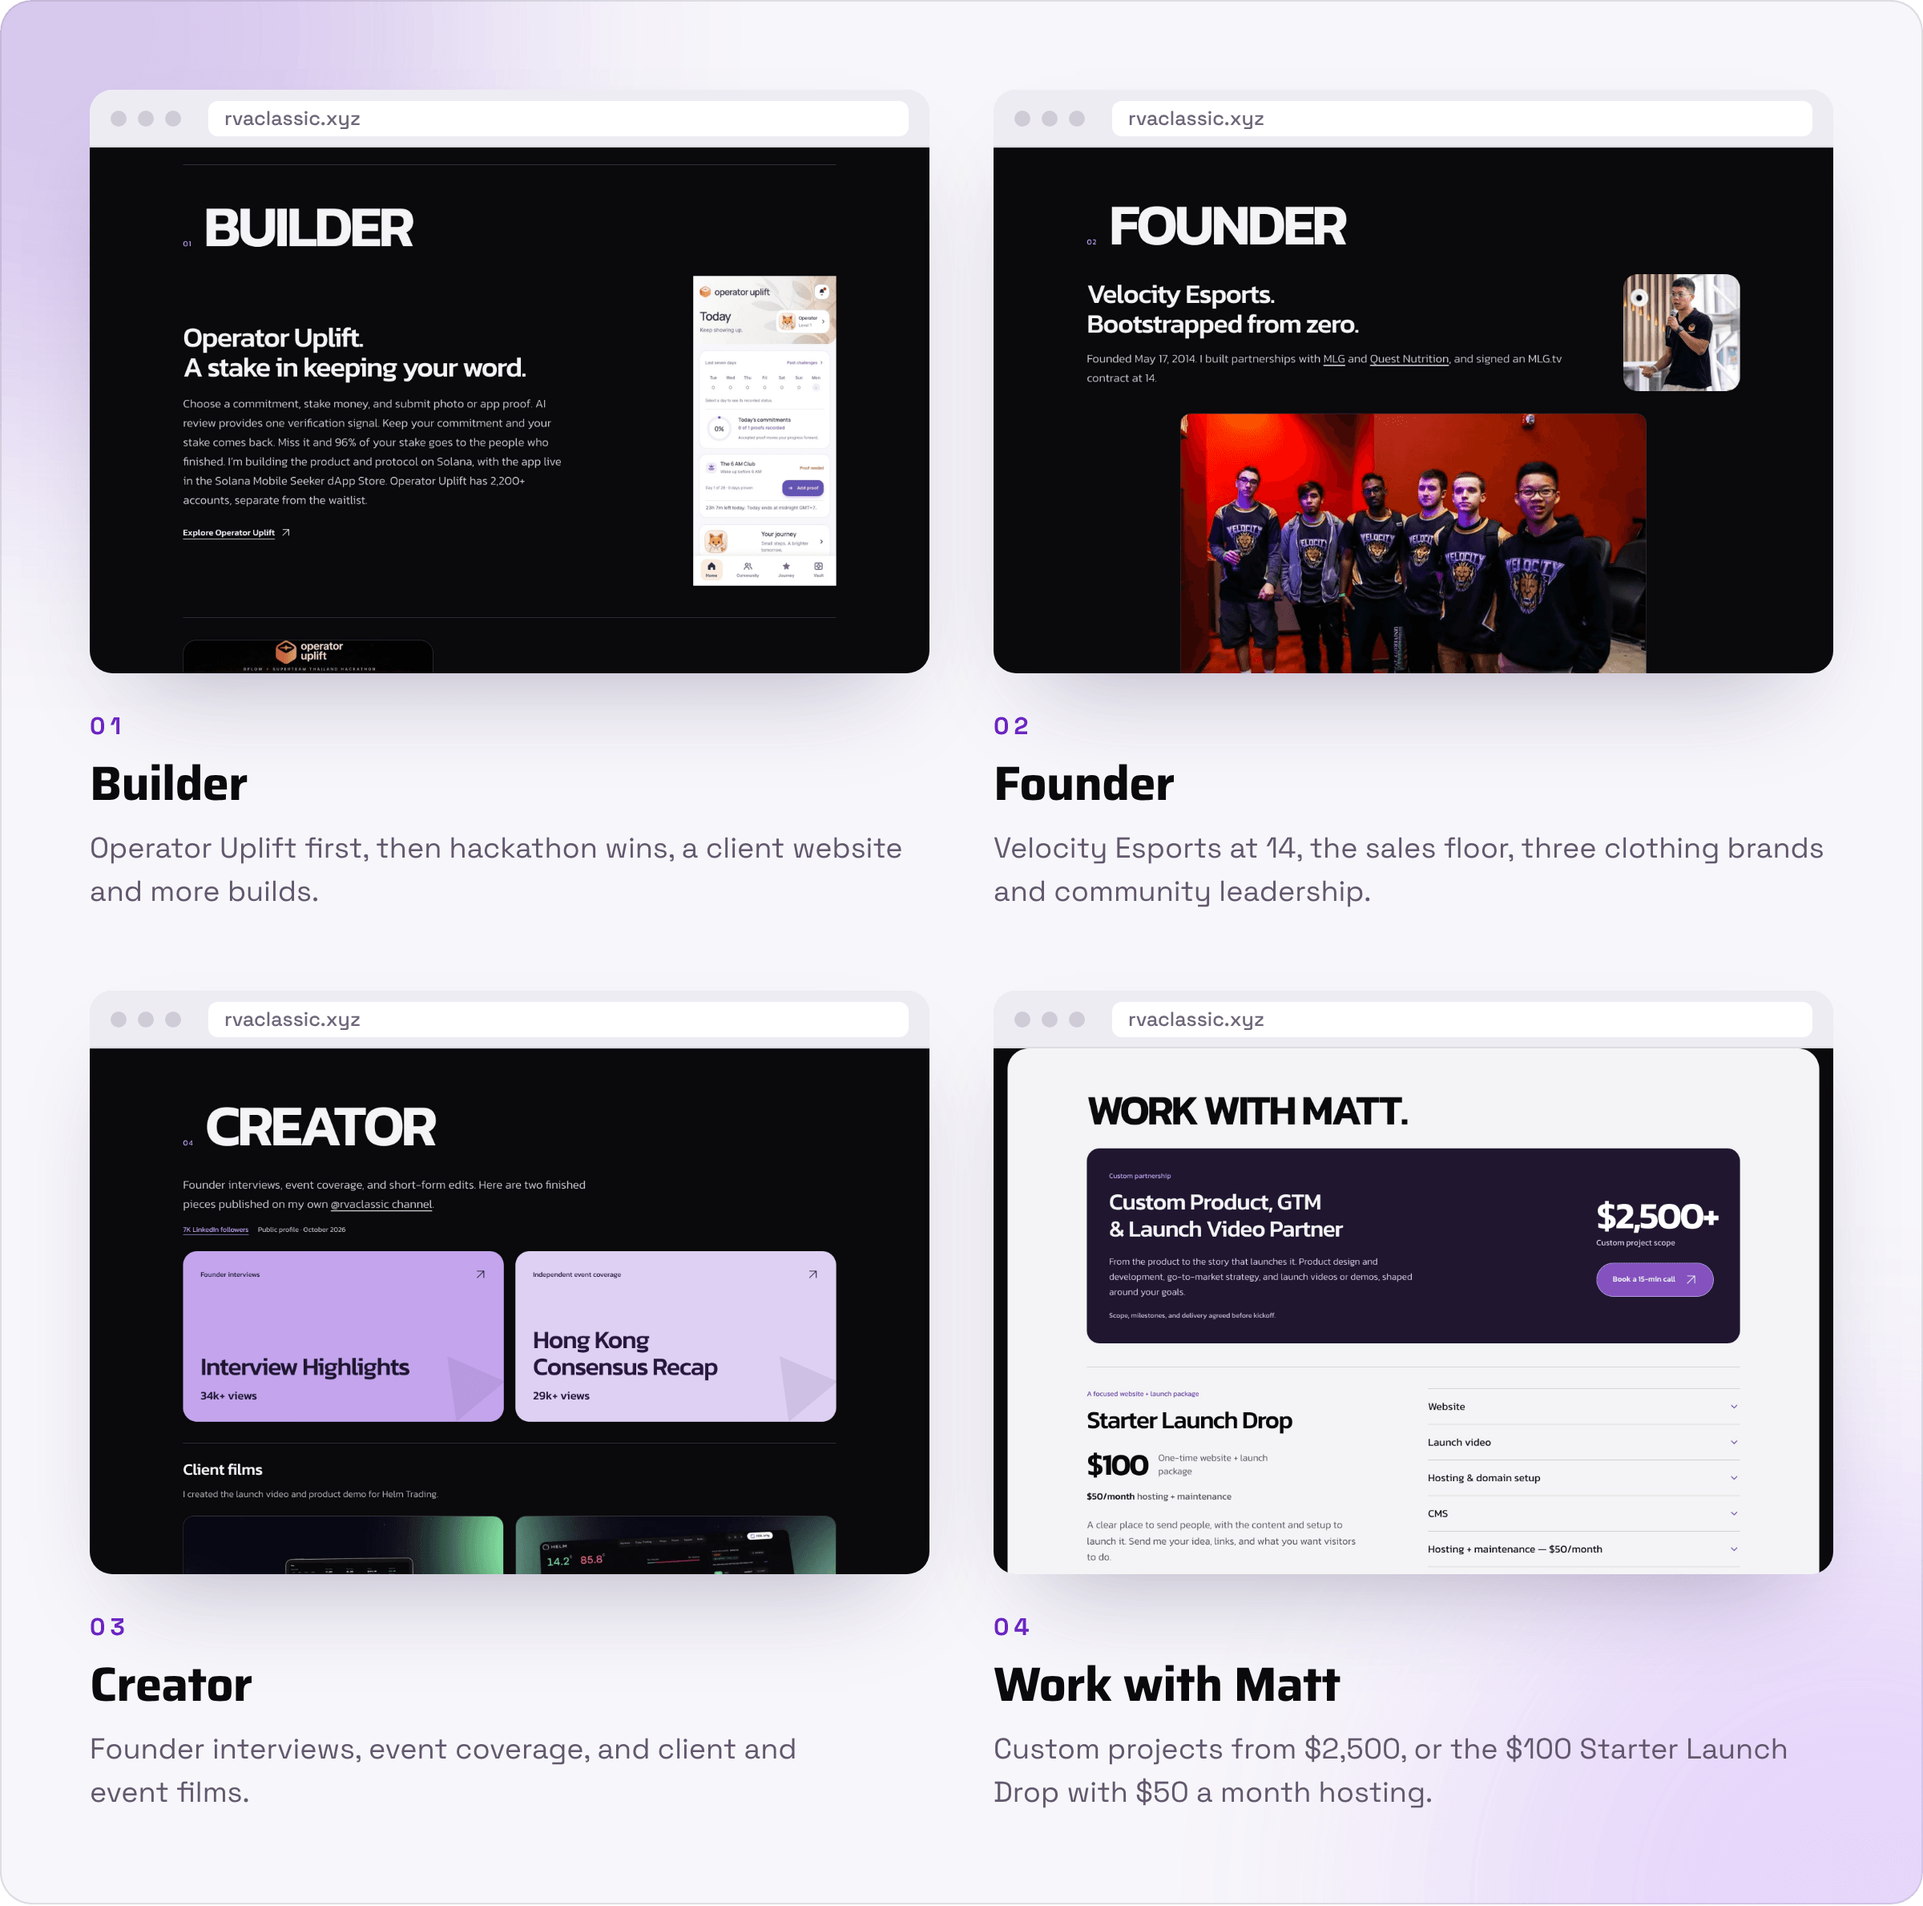
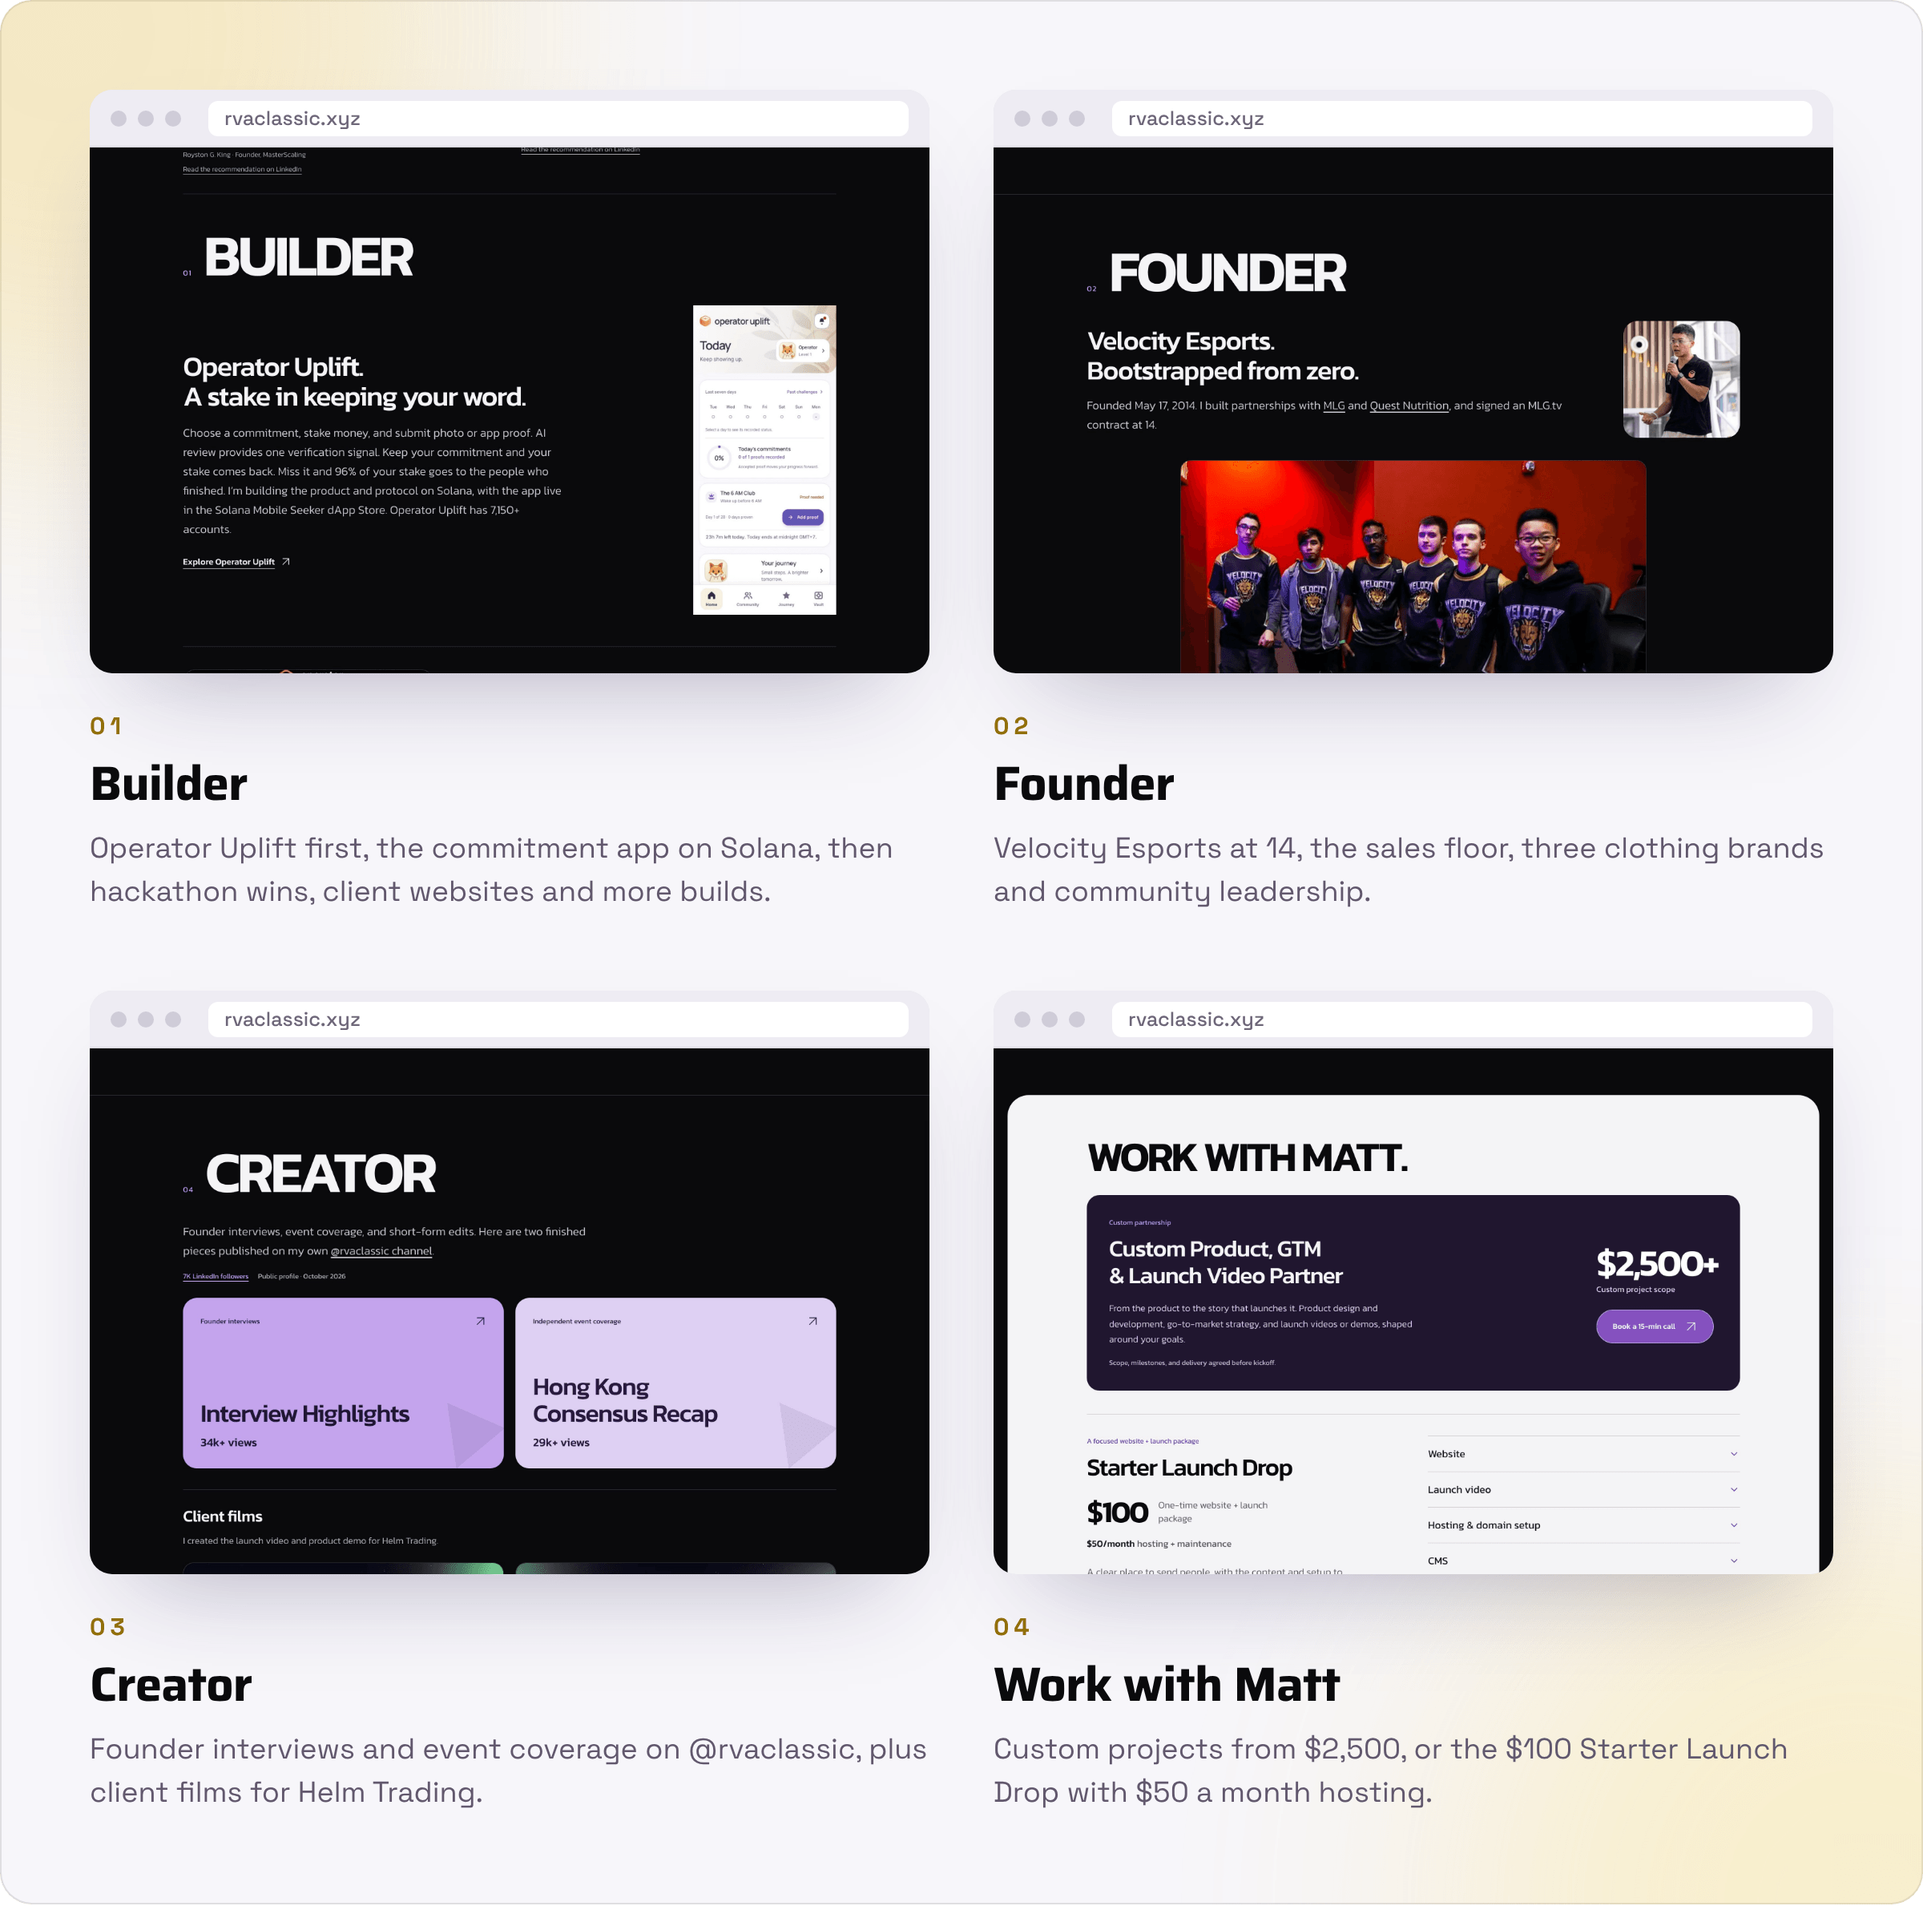
docs: refresh the README graphics for the Binance Week page
- banner, phone walkthrough and portfolio cards retaken from the live
  binanceweek.rvaclassic.xyz and rvaclassic.xyz on 22 November 2026,
  replacing the archived Breakpoint screenshots
- the walkthrough and flow cards are back in the README
- date ranges written with "to"; the status row says the page is live
  and that breakpoint.rvaclassic.xyz shows it too

Claude-Session: https://claude.ai/code/session_01TZhsuWjATuivuiFYJGpbY5

diff --git a/README.md b/README.md
@@ -1,8 +1,6 @@
 <div align="center">
 
-<img src="docs/readme/banner.png" alt="Archived screenshot of the previous sponsor page. The current page is Matt Sim's creator sponsorship for Binance Blockchain Week Bangkok." width="100%">
-
-<p align="center"><sub>Archived screenshot of the previous sponsor page. The current offer is the Bangkok creator page described below.</sub></p>
+<img src="docs/readme/banner.png" alt="Matt Sim, @RVAClassic. Independent creator page, Bangkok. Content from the floor. Short videos and X posts from Binance Blockchain Week at QSNCC, Bangkok, 28 to 29 Nov 2026. Spotlight $250, Feature $500, filmed 27 to 30 Nov, email, X or Telegram. binanceweek.rvaclassic.xyz. Beside the copy, the page's yellow hero with its halftone globe on a desktop and the packages section on a phone." width="100%">
 
 <br><br>
 
@@ -13,7 +11,7 @@
 <br><br>
 
 <img src="https://img.shields.io/badge/packages-%24250_and_%24500-F0B90B?style=flat-square&labelColor=0B0E11" alt="Packages at $250 and $500">
-<img src="https://img.shields.io/badge/event-Bangkok%2C_28%E2%80%9329_Nov_2026-FCD535?style=flat-square&labelColor=0B0E11" alt="Event in Bangkok, 28–29 Nov 2026">
+<img src="https://img.shields.io/badge/event-Bangkok%2C_28_to_29_Nov_2026-FCD535?style=flat-square&labelColor=0B0E11" alt="Event in Bangkok, 28 to 29 Nov 2026">
 <img src="https://img.shields.io/badge/build-none%2C_static_HTML-C5CCD4?style=flat-square&labelColor=0B0E11" alt="No build step, static HTML">
 <img src="https://img.shields.io/badge/hosted_on-Vercel-000000?style=flat-square&logo=vercel&logoColor=white&labelColor=0B0E11" alt="Hosted on Vercel">
 <a href="LICENSE"><img src="https://img.shields.io/badge/license-MIT-6F6163?style=flat-square&labelColor=0B0E11" alt="License: MIT"></a>
@@ -35,7 +33,14 @@
 
 <br>
 
-**This is an independent creator page for Matt Sim (@RVAClassic).** It offers two content packages for Binance Blockchain Week at QSNCC, Bangkok. The main event is 28–29 Nov 2026. Side events run 27–30 Nov 2026. The page is meant to be served at [binanceweek.rvaclassic.xyz](https://binanceweek.rvaclassic.xyz). It does not use the event company's marks, and the footer states that the page is not affiliated with or endorsed by Binance.
+<picture>
+  <source media="(prefers-color-scheme: dark)" srcset="docs/readme/screens-dark.png">
+  <img src="docs/readme/screens-light.png" alt="Four sections of the page on a phone. 01, meet Matt: what he films and writes on the ground, with no invented product claims and no token promotion. 02, see the posts: recent posts from @RVAClassic with their real view, like and reply counts, pulled on 22 Nov 2026. 03, pick a package: Spotlight at $250 for one video and one post, or Feature at $500 for two videos, a thread and a recap mention. 04, book it: email, X or Telegram; agree the filming window, Matt films 27 to 30 Nov, and final files arrive within 72 hours." width="100%">
+</picture>
+
+<p align="center"><sub>Captured from the live page, binanceweek.rvaclassic.xyz, on 22 November 2026 at phone size.</sub></p>
+
+**This is an independent creator page for Matt Sim (@RVAClassic).** It offers two content packages for Binance Blockchain Week at QSNCC, Bangkok. The main event is 28 to 29 Nov 2026. Side events run 27 to 30 Nov 2026. The page is live at [binanceweek.rvaclassic.xyz](https://binanceweek.rvaclassic.xyz). It does not use the event company's marks, and the footer states that the page is not affiliated with or endorsed by Binance.
 
 There is no checkout. Each package button opens an email to matthew.d.sim@gmail.com with the package in the subject line, and sponsors can also message [@RVAClassic on X](https://x.com/RVAClassic) or [@operatoruplift on Telegram](https://t.me/operatoruplift). Matt is looking for one Feature ($500) and one Spotlight ($250), $750 in total support for the week. The offer is a draft: nothing has been sent or booked.
 
@@ -44,6 +49,11 @@ The same repository serves Matt's portfolio at [rvaclassic.xyz](https://rvaclass
 <br>
 
 ## How it works
+
+<picture>
+  <source media="(prefers-color-scheme: dark)" srcset="docs/readme/flow-dark.png">
+  <img src="docs/readme/flow-light.png" alt="dist/, hand-written files: HTML, CSS and a little JavaScript, local images, fonts and video, no package.json and no build step. A git push to main reaches Vercel, which serves it as is: pushes to main deploy production, no install or build command, routes by host before files. Host routing gives two sites from one deploy: the creator page on the binanceweek host and the portfolio on rvaclassic.xyz, with robots, sitemap and llms.txt per host." width="100%">
+</picture>
 
 <table>
   <tr valign="top">
@@ -70,7 +80,7 @@ As listed on the sponsor page. Figures for the X posts were pulled Nov 22, 2026.
   <tr valign="top">
     <td><b>Spotlight</b></td>
     <td>$250</td>
-    <td>1 short video (about 15–60s) filmed at your booth, stage, or side event, plus 1 X post from @RVAClassic. You may repost or embed the finished pieces, with credit.</td>
+    <td>1 short video (about 15 to 60 seconds) filmed at your booth, stage, or side event, plus 1 X post from @RVAClassic. You may repost or embed the finished pieces, with credit.</td>
   </tr>
   <tr valign="top">
     <td><b>Feature</b></td>
@@ -79,7 +89,7 @@ As listed on the sponsor page. Figures for the X posts were pulled Nov 22, 2026.
   </tr>
 </table>
 
-Filmed 27–30 Nov 2026 (Asia/Bangkok). Delivered within 72 hours of filming. What is not included: guaranteed view counts, token or trading calls, or any post that goes out before you have seen the draft if you want a review.
+Filmed 27 to 30 Nov 2026 (Asia/Bangkok). Delivered within 72 hours of filming. What is not included: guaranteed view counts, token or trading calls, or any post that goes out before you have seen the draft if you want a review.
 
 <br>
 
@@ -87,10 +97,10 @@ Filmed 27–30 Nov 2026 (Asia/Bangkok). Delivered within 72 hours of filming. Wh
 
 <picture>
   <source media="(prefers-color-scheme: dark)" srcset="docs/readme/portfolio-dark.png">
-  <img src="docs/readme/portfolio-light.png" alt="Four sections of the portfolio at rvaclassic.xyz. 01, Builder: Operator Uplift first, then hackathon wins, a client website and more builds. 02, Founder: Velocity Esports at 14, the sales floor, three clothing brands and community leadership. 03, Creator: founder interviews, event coverage, and client and event films. 04, Work with Matt: custom projects from $2,500, or the $100 Starter Launch Drop with $50 a month hosting." width="100%">
+  <img src="docs/readme/portfolio-light.png" alt="Four sections of the portfolio at rvaclassic.xyz. 01, Builder: Operator Uplift first, the commitment app on Solana, then hackathon wins, client websites and more builds. 02, Founder: Velocity Esports at 14, the sales floor, three clothing brands and community leadership. 03, Creator: founder interviews and event coverage on @rvaclassic, plus client films for Helm Trading. 04, Work with Matt: custom projects from $2,500, or the $100 Starter Launch Drop with $50 a month hosting." width="100%">
 </picture>
 
-<p align="center"><sub>Captured from a local copy of <code>dist/portfolio/</code> on 30 October 2026. The hero is not shown: its sky video and 3D art load from remote hosts this environment cannot reach.</sub></p>
+<p align="center"><sub>Captured from the live portfolio, rvaclassic.xyz, on 22 November 2026 at 1440 by 900.</sub></p>
 
 [`dist/portfolio/`](dist/portfolio) is Matt's portfolio, served at the apex domain. It has Builder, Founder, Events and Creator sections, with all 19 hackathon prize finishes listed under Builder, a Featured in section with interviews and articles, and Matt's services: custom product, GTM and launch video projects from $2,500, the Starter Launch Drop (a $100 one-time website and launch package, plus $50 a month for hosting and maintenance), and separately quoted video, design, social and business development work. The public RVAClassic brand kit lives at [`/portfolio/brand/`](dist/portfolio/brand), with logos, favicons, fonts, tokens and the brand guide. [`brand.md`](brand.md) records the palette, type, voice and pricing rules.
 
@@ -100,8 +110,8 @@ Filmed 27–30 Nov 2026 (Asia/Bangkok). Delivered within 72 hours of filming. Wh
 
 <table>
   <tr valign="top">
-    <td width="16%" align="center"><img src="https://img.shields.io/badge/READY-F0B90B?style=for-the-badge&labelColor=0B0E11" alt="Ready"></td>
-    <td>The sponsor page is written for <a href="https://binanceweek.rvaclassic.xyz">binanceweek.rvaclassic.xyz</a>. This repository does not attach that domain or change DNS. Main event 28–29 Nov 2026 at QSNCC, Bangkok. Side events 27–30 Nov 2026. Filming 27–30 Nov 2026 (Asia/Bangkok), with delivery within 72 hours.</td>
+    <td width="16%" align="center"><img src="https://img.shields.io/badge/LIVE-34d399?style=for-the-badge" alt="Live"></td>
+    <td>The sponsor page is live at <a href="https://binanceweek.rvaclassic.xyz">binanceweek.rvaclassic.xyz</a>, and the previous sponsor address, breakpoint.rvaclassic.xyz, now shows the same page. Main event 28 to 29 Nov 2026 at QSNCC, Bangkok. Side events 27 to 30 Nov 2026. Filming 27 to 30 Nov 2026 (Asia/Bangkok), with delivery within 72 hours.</td>
     <td width="22%"><a href="https://binanceweek.rvaclassic.xyz">Sponsor page</a></td>
   </tr>
   <tr valign="top">
@@ -163,6 +173,7 @@ Public source: https://github.com/operatoruplift/send-matt-to-breakpoint
 | `dist/index.html` | Sponsor page, Spotlight and Feature, and social metadata for binanceweek.rvaclassic.xyz |
 | `dist/styles.css` | Event-site palette, yellow poster hero, pill buttons, Montserrat, and the motion layer (reveals, timeline, ticker, reduced-motion rules) for the sponsor page |
 | `dist/bbw.js` | Sponsor-page motion: the halftone globe drawn on a canvas (turns toward Bangkok, pauses off screen and for reduced motion), scroll reveals, count-ups, section highlight, the mobile action bar and silent film previews |
+| `dist/assets/binanceweek-og.png` | The 1200 by 630 share image for binanceweek.rvaclassic.xyz, in the page's palette and Montserrat. The page requests it as `?v=2`; raise that number when the image changes so X and Telegram fetch the new one |
 | `dist/assets/land-mask.png` | 360×180 one-bit land and sea grid the globe samples, downsampled from the earth specular map in the three.js examples |
 | `dist/site.js` | Unused video-dialog helper kept from the previous page |
 | `dist/journey.js`, `dist/journey.css` | Previous page animation, not loaded by the current sponsor page |
